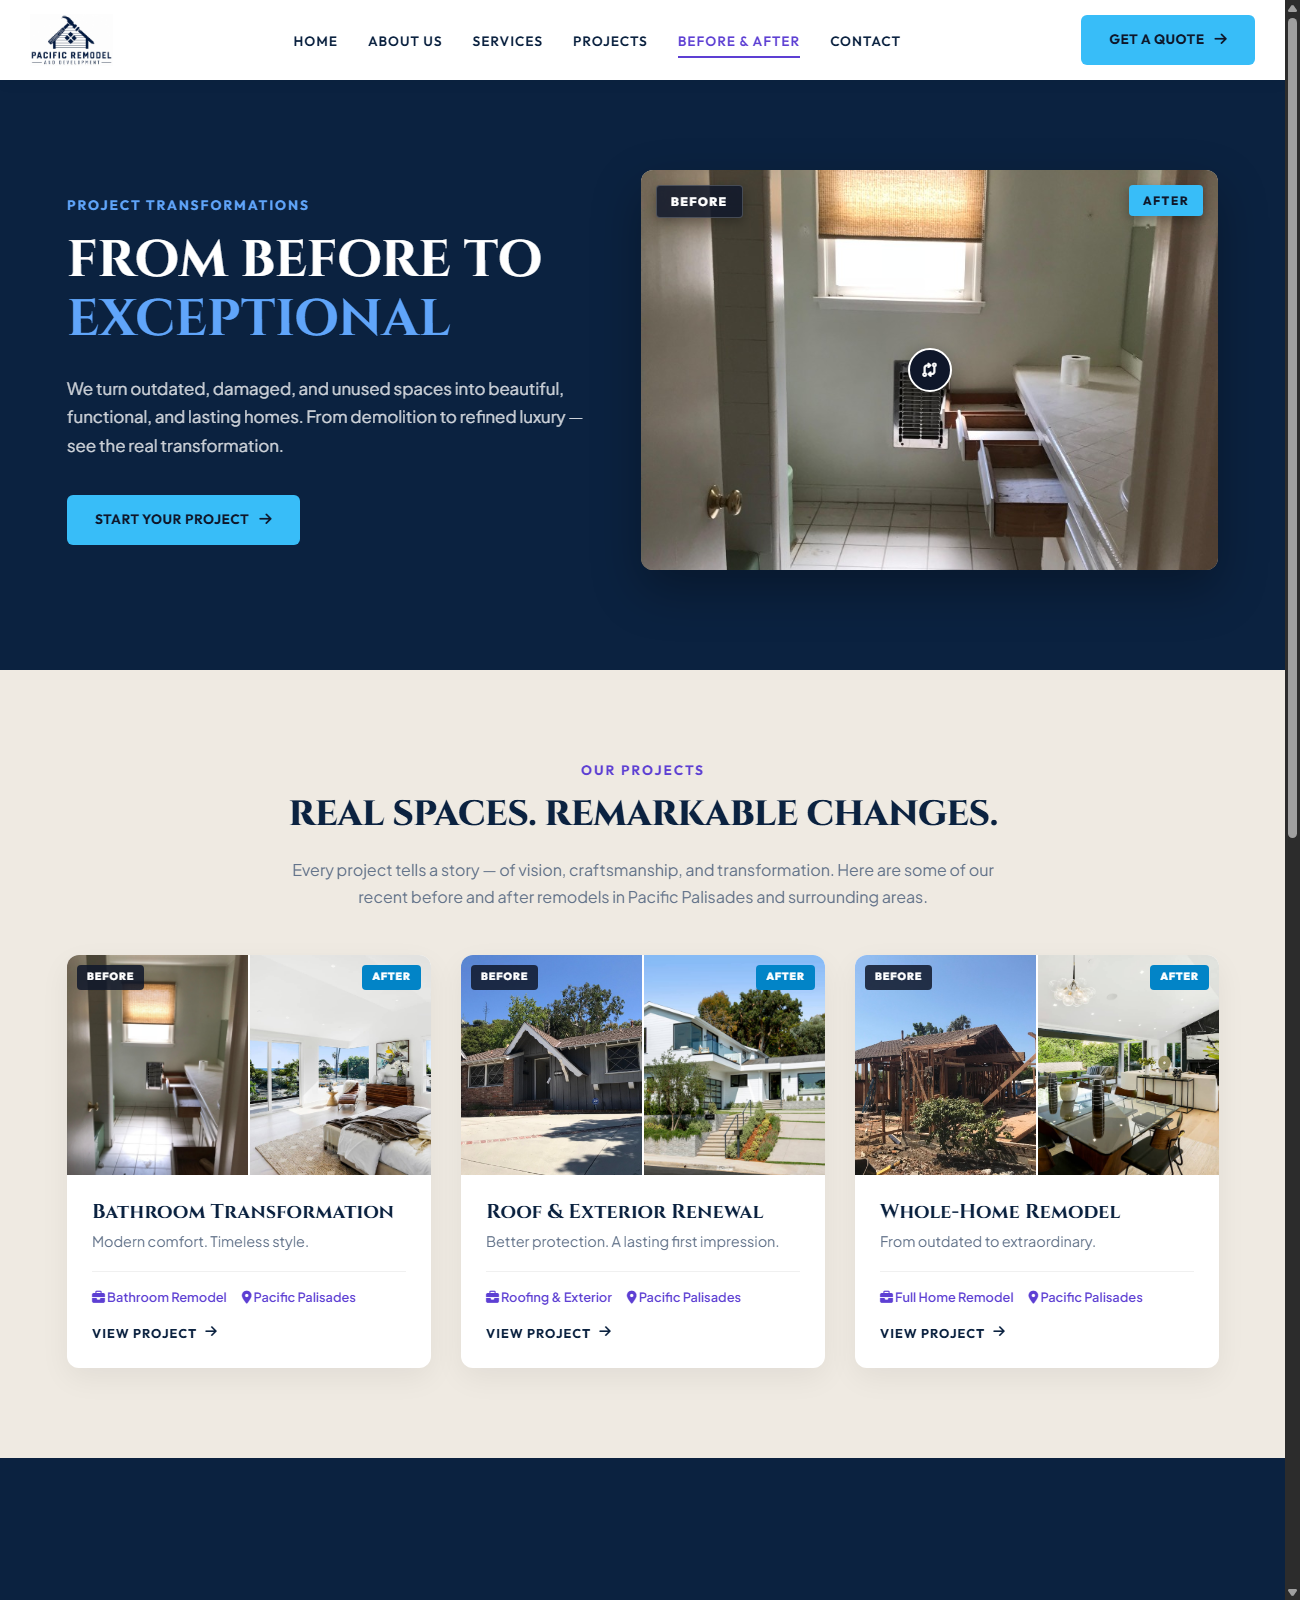
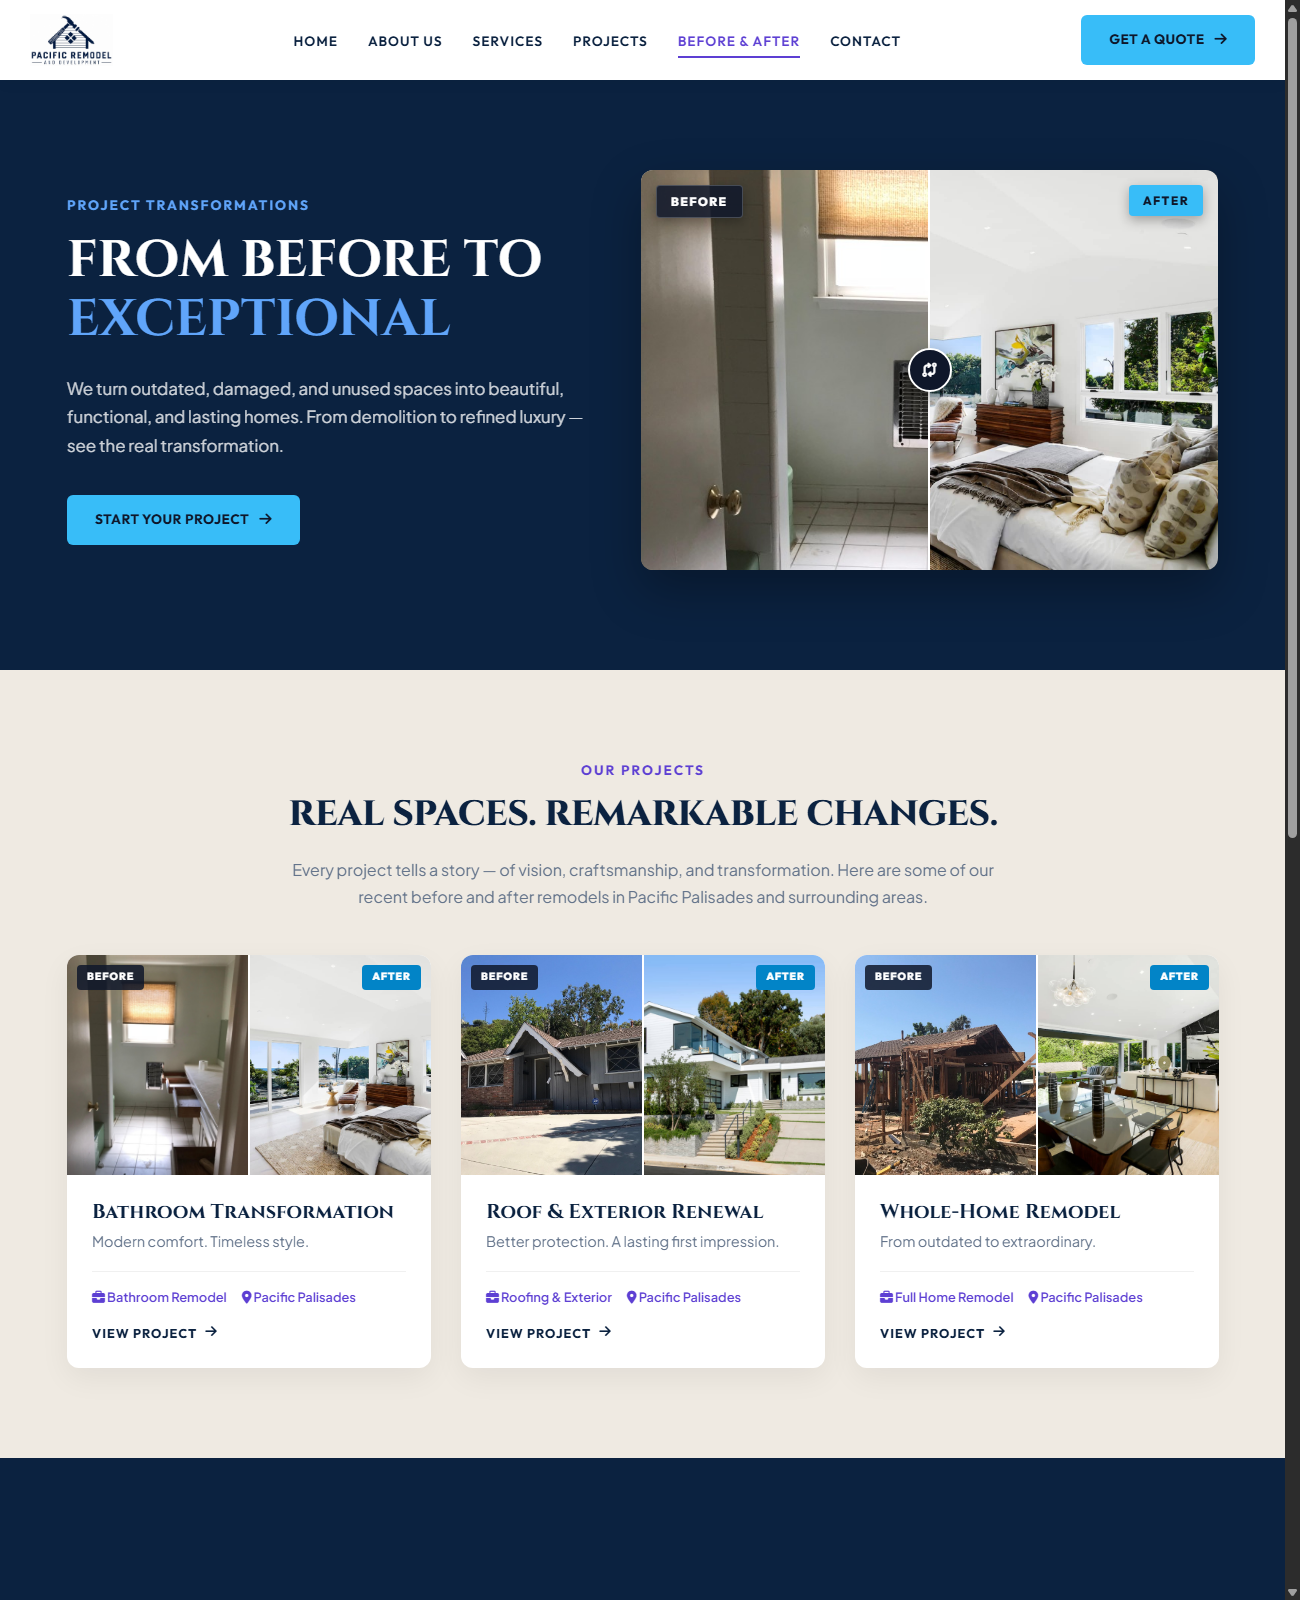
Fix position absolute on .ba-slider-before container so before images render cleanly on before-after.html

Changed region(s): [[0.7077, 0.0938, 0.9538, 0.375]]

diff --git a/before-after.html b/before-after.html
@@ -120,6 +120,10 @@
             background-position: center;
         }
         .ba-slider-before {
+            position: absolute;
+            top: 0;
+            left: 0;
+            height: 100%;
             width: 50%;
             z-index: 1;
             overflow: hidden;
@@ -607,6 +611,17 @@
             const clip = document.getElementById(clipId);
             const handle = document.getElementById(handleId);
             if (!widget || !clip || !handle) return;
+
+            const inner = clip.querySelector('.ba-img-inner');
+
+            function syncWidth() {
+                if (inner) {
+                    inner.style.width = widget.offsetWidth + 'px';
+                }
+            }
+
+            syncWidth();
+            window.addEventListener('resize', syncWidth);
 
             let isDragging = false;
 
